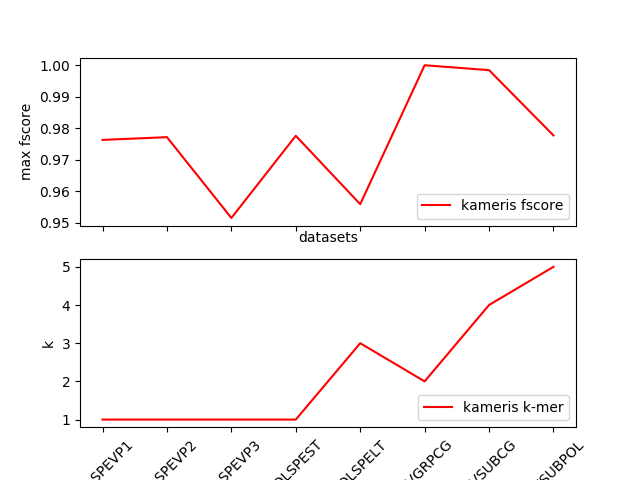
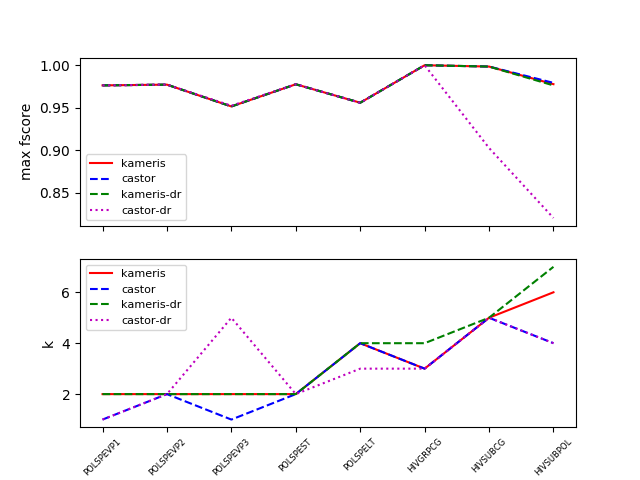
pruebas

diff --git a/viral/viral_classification/graphics.py b/viral/viral_classification/graphics.py
@@ -11,7 +11,7 @@ import pandas as pd
 
 current_dir = os.path.dirname(os.path.abspath(__file__))
 #datasets = ['POLSPEVP1', 'POLSPEVP2', 'POLSPEVP3', 'POLSPEST', 'POLSPELT'] 
-datasets = ['HIVGRPCG', 'HIVSUBCG', 'HIVSUBPOL'] 
+#datasets = ['HIVGRPCG', 'HIVSUBCG', 'HIVSUBPOL'] 
 
 datasets = ['POLSPEVP1', 'POLSPEVP2', 'POLSPEVP3', 'POLSPEST', 'POLSPELT', 'HIVGRPCG', 'HIVSUBCG', 'HIVSUBPOL'] 
 
@@ -62,6 +62,7 @@ POLSPEVP3_dr = np.genfromtxt(current_dir + '/results/POLSPEVP3_dr=1.csv', delimi
 POLSPEST_dr = np.genfromtxt(current_dir + '/results/POLSPEST_dr=1.csv', delimiter=',')
 
 POLSPELT_dr = np.genfromtxt(current_dir + '/results/POLSPELT_dr=1.csv', delimiter=',')
+
 
 ############################################################################################
 # comparison between 'POLSPEVP1', 'POLSPEVP2', 'POLSPEVP3', 'POLSPEST' without dimentionality reduction
@@ -206,38 +207,71 @@ plt.savefig(current_dir + '/results/' + 'comparison5_castor_dr=0_1.png')
 #castor_min_k = min(indices[0])
 
 castor_metrics = []
+castor_metrics_dr = []
 kameris_metrics = []
+kameris_metrics_dr = []
 for i, dataset in enumerate(datasets):
+    
     file_name = current_dir + '/results/' + dataset + '_dr=0.csv'
     data = np.genfromtxt(file_name, delimiter=',')
 
     kameris_max_fscore = max(data[:, 4])
     indices = np.where(data[:, 4] == kameris_max_fscore)
-    kameris_min_k = min(indices[0])
+    kameris_min_k_index = min(indices[0])
+    kameris_min_k = data[kameris_min_k_index, 0] # in this column is k value
 
     kameris_metrics.append([kameris_max_fscore, kameris_min_k])
 
     castor_max_fscore = max(data[:, 8])
     indices = np.where(data[:, 8] == castor_max_fscore)
-    castor_min_k = min(indices[0])
+    castor_min_k_index = min(indices[0])
+    castor_min_k = data[castor_min_k_index, 0] # in this column is k value
 
     castor_metrics.append([castor_max_fscore, castor_min_k])
 
+
+
+    file_name = current_dir + '/results/' + dataset + '_dr=1.csv'
+    data = np.genfromtxt(file_name, delimiter=',')
+
+    kameris_max_fscore = max(data[:, 4])
+    indices = np.where(data[:, 4] == kameris_max_fscore)
+    kameris_min_k_index = min(indices[0])
+    kameris_min_k = data[kameris_min_k_index, 0] # in this column is k value
+
+    kameris_metrics_dr.append([kameris_max_fscore, kameris_min_k])
+
+    castor_max_fscore = max(data[:, 8])
+    indices = np.where(data[:, 8] == castor_max_fscore)
+    castor_min_k_index = min(indices[0])
+    castor_min_k = data[castor_min_k_index, 0] # in this column is k value
+
+    castor_metrics_dr.append([castor_max_fscore, castor_min_k])
+
 castor_metrics = np.array(castor_metrics)
 kameris_metrics = np.array(kameris_metrics)
+castor_metrics_dr = np.array(castor_metrics_dr)
+kameris_metrics_dr = np.array(kameris_metrics_dr)
 
-print(kameris_metrics[:, 0])
-print(range(0, 8))
+
 
 fig, (ax1, ax2) = plt.subplots(2, sharex=True)
-ax1.plot(datasets, kameris_metrics[:, 0], 'r', label='kameris fscore')
-ax1.legend(loc='lower right')
+ax1.plot(datasets, kameris_metrics[:, 0], 'r', label='kameris')
+ax1.plot(datasets, castor_metrics[:, 0], 'b--', label='castor')
+ax1.plot(datasets, kameris_metrics_dr[:, 0], 'g--', label='kameris-dr')
+ax1.plot(datasets, castor_metrics_dr[:, 0], 'm:', label='castor-dr')
+ax1.legend(loc='lower left', fontsize=8)
 ax1.set(xlabel='datasets', ylabel='max fscore')
+ax1.label_outer()
 
 #ax1.set_title('POLSPEVP1')
-ax2.plot(datasets, kameris_metrics[:, 1], 'r', label='kameris k-mer')
-ax2.legend(loc='lower right')
+ax2.plot(datasets, kameris_metrics[:, 1], 'r', label='kameris')
+ax2.plot(datasets, castor_metrics[:, 1], 'b--', label='castor')
+ax2.plot(datasets, kameris_metrics_dr[:, 1], 'g--', label='kameris-dr')
+ax2.plot(datasets, castor_metrics_dr[:, 1], 'm:', label='castor-dr')
+ax2.legend(loc='upper left', fontsize=8)
 ax2.set(xlabel='datasets', ylabel='k')
+ax1.label_outer()
 #ax2.set_xticklabels(['POLSPEVP1', 'POLSPEVP2', 'POLSPEVP3', 'POLSPEST', 'POLSPELT'])
 #ax2.set_title('POLSPEVP1')
 #axs[0, 1].plot(range(1, 9), kameris_metrics[:, 1], 'r', label='kameris k-mer')
@@ -245,9 +279,9 @@ ax2.set(xlabel='datasets', ylabel='k')
 #axs[0, 1].set(xlabel='datasets', ylabel='k')
 #axs[0, 1].set_title('POLSPEVP1')
 
-plt.xticks(rotation=45)
+plt.xticks(rotation=45, fontsize=6)
 # Hide x labels and tick labels for top plots and y ticks for right plots.
-for ax in axs.flat:
-    ax.label_outer()
+#for ax in axs.flat:
+#    ax.label_outer()
 
 plt.savefig(current_dir + '/results/' + 'comparison_max_fscore.png')

diff --git a/viral/viral_classification/compare.py b/viral/viral_classification/compare.py
@@ -121,14 +121,14 @@ def kameris(train, test, k, dimention_reduction):
     acc = accuracy_score(y_test, y_pred)
 
     #print('metrics: acc, precision, recall, fscore ', acc, metrics)
-    return acc, metrics[0], metrics[1], metrics[2]
+    return acc, metrics[0], metrics[1], metrics[2], number_features
 
 
 ###################################################################################################
 #############################               castor                  ###############################
 # this funtion return de acc, fcore, .... of the models proposed by
 # Toward an Alignment-Free Method for Feature Extraction [1]
-def castor(train, test, k, dimention_reduction, nfeatures):
+def castor(train, test, k, dimention_reduction):
     scaler1 = StandardScaler()
 
     k_mers              = fe.generate_K_mers(train, k) #list of substring of size k: (if k = 2; k_mers= [AT, CG, AC, ...])    
@@ -143,7 +143,7 @@ def castor(train, test, k, dimention_reduction, nfeatures):
 
         #X_train, k_mers   = fe.recursiveFeatureElimination(X_train, y_train, k_mers, nfeatures)
         len_kamers_before_rfe = len(k_mers)
-        k_mers, best_k_length = fe.getBestKmersAndFeaturesMini(train, k, range(1,15), 0.99)
+        k_mers, best_k_length = fe.getBestKmersAndFeaturesMini(train, k, range(1,100), 0.99)
         print("len_kamers_before_rfe ", len_kamers_before_rfe, " reduce fetures ", len(k_mers), k_mers)
         X_train, y_train    = fe.generateXYMatrice(train, k_mers, k)
 
@@ -170,7 +170,7 @@ def castor(train, test, k, dimention_reduction, nfeatures):
     acc = accuracy_score(y_test, y_pred)
 
     #print('metrics: acc, precision, recall, fscore ', acc, metrics)
-    return acc, metrics[0], metrics[1], metrics[2]
+    return acc, metrics[0], metrics[1], metrics[2], len(k_mers)
 
     
 
@@ -185,7 +185,6 @@ def split_data(data, indexs):
     return k_fold
 
 #k = 7
-nfeatures = 7
 
 #dataset_path = "/home/vicente/projects/BIOINFORMATICS/datasets/VIRAL/"
 dataset_path = sys.argv[1]
@@ -214,7 +213,7 @@ for i, dataset in enumerate(datasets):
 
     csv = []
 
-    for k in range(1,11):
+    for k in range(1,10):
         print("\n\nEvaluating with k-mer:", k, " ==========================")
 
         data = fe.generateLabeledData(dataset_path + dataset + "/data.fa", dataset_path  + dataset + "/class.csv")         
@@ -229,12 +228,12 @@ for i, dataset in enumerate(datasets):
             data_train = split_data(data, train_index)
             data_test = split_data(data, test_index)                       
 
-            acc, pre, recall, fscore = kameris(data_train, data_test, k, dimention_reduction)
-            metrics_kameris.append([acc, pre, recall, fscore])
+            acc, pre, recall, fscore, number_features = kameris(data_train, data_test, k, dimention_reduction)
+            metrics_kameris.append([acc, pre, recall, fscore, number_features])
             print("k-fold ", i, "metrics_kameris: ", acc, pre, recall, fscore)
 
-            acc, pre, recall, fscore = castor(data_train, data_test, k, dimention_reduction, nfeatures)
-            metrics_castor.append([acc, pre, recall, fscore])
+            acc, pre, recall, fscore, number_features = castor(data_train, data_test, k, dimention_reduction)
+            metrics_castor.append([acc, pre, recall, fscore, number_features])
             print("k-fold ", i, "metrics_castor:  ", acc, pre, recall, fscore)
 
             i += 1
@@ -253,8 +252,8 @@ for i, dataset in enumerate(datasets):
         
         csv.append(row)
 
-    file_name = current_dir + '/results/' + dataset.split('/')[1] + '_dr=' + str(dimention_reduction) + ".csv"
-    header = "'k', 'k_acc', 'k_presicion', 'k_recall', 'k_fscore', 'c_acc', 'c_presicion', 'c_recall', 'c_fscore'"
+    file_name = current_dir + '/results/' + dataset.split('/')[1] + '_dr=' + str(dimention_reduction) + "_nfeatures.csv"
+    header = "'k', 'k_acc', 'k_presicion', 'k_recall', 'k_fscore', 'k_nfeatures', 'c_acc', 'c_presicion', 'c_recall', 'c_fscore', 'c_nfeatures'"
     np.savetxt(file_name, np.array(csv), delimiter=',', fmt='%f', header=header)
     print("save file to: ", file_name)
         
